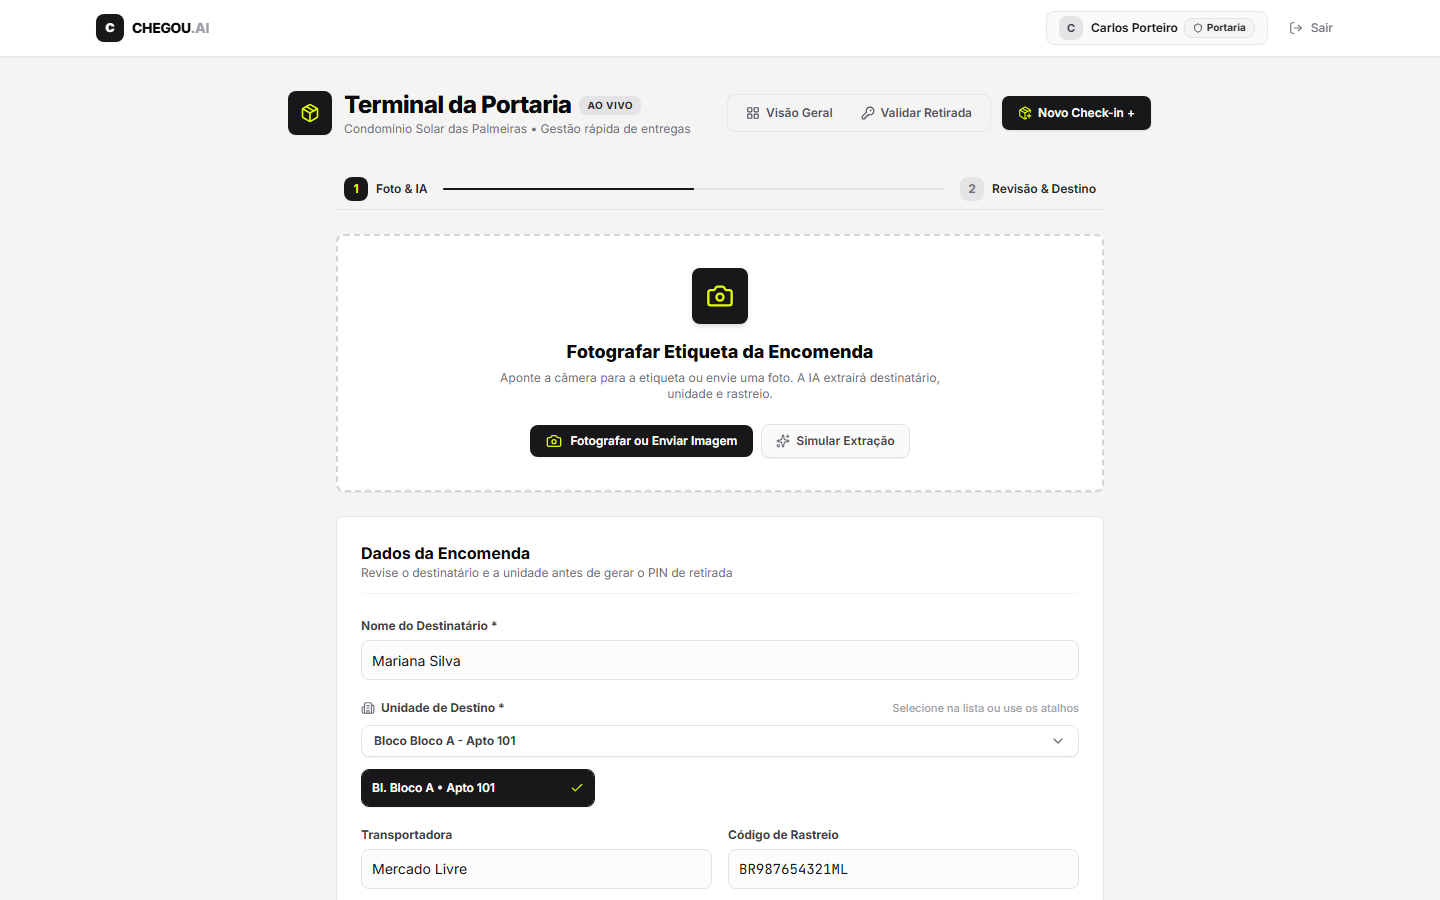
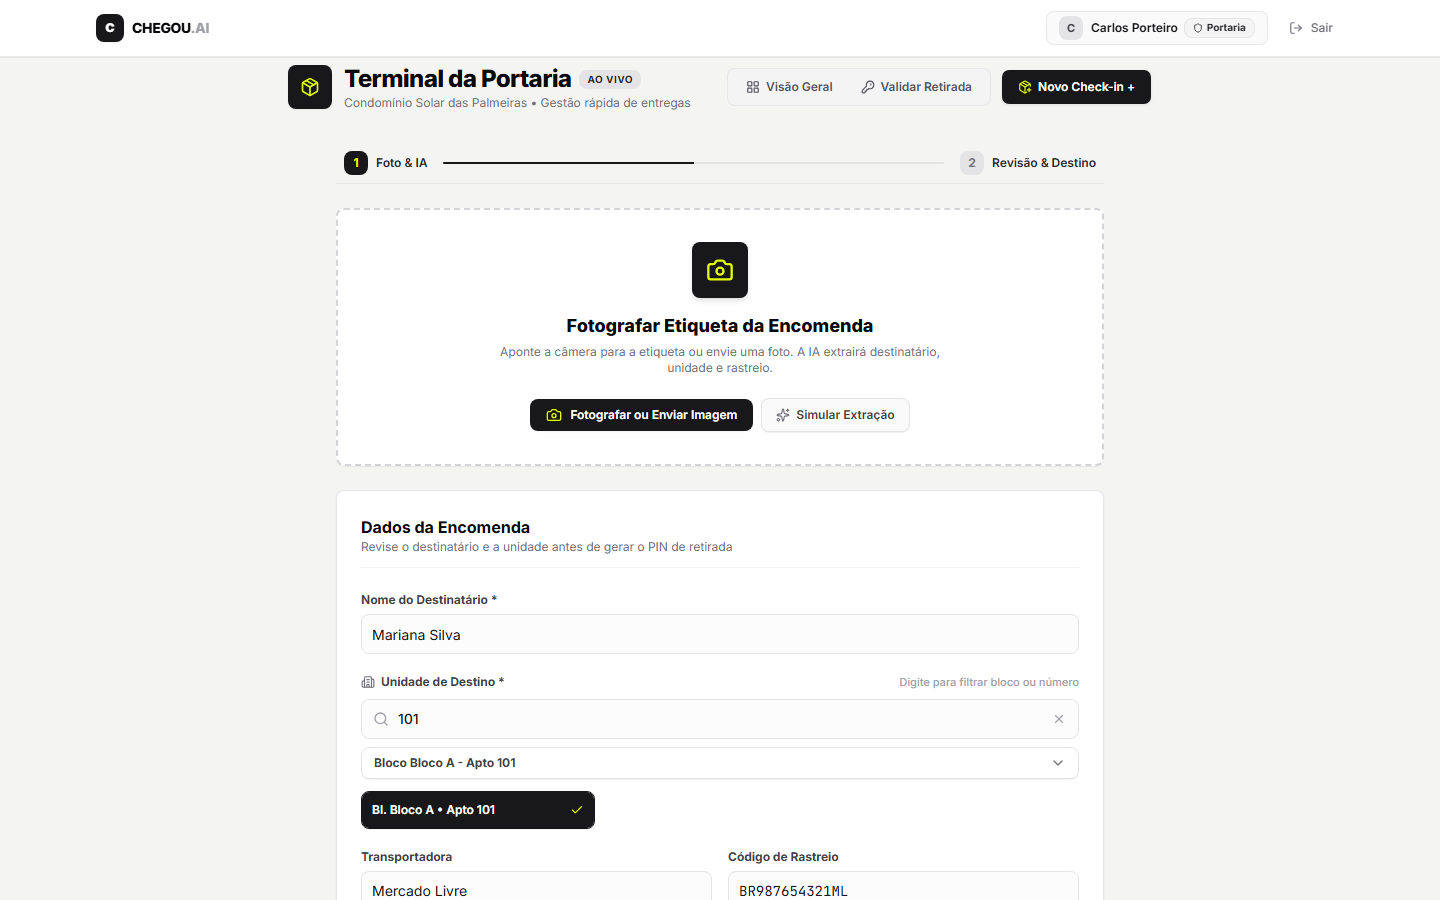
feat: add scan-form component and portaria checkin screenshot

diff --git a/apps/web/src/features/scan-label/ui/scan-form.tsx b/apps/web/src/features/scan-label/ui/scan-form.tsx
@@ -19,7 +19,7 @@ import {
   SelectItem,
 } from "@/shared/ui/select"
 import { toast } from "sonner"
-import { Sparkles, ArrowRight, ShieldCheck, AlertCircle, Building2, Check, ArrowLeft } from "lucide-react"
+import { Sparkles, ArrowRight, ShieldCheck, AlertCircle, Building2, Check, ArrowLeft, Search, X } from "lucide-react"
 import { useRouter } from "next/navigation"
 import { generateUUID } from "@/shared/lib/utils"
 
@@ -35,6 +35,7 @@ export function ScanForm({ units }: ScanFormProps) {
   const [aiScore, setAiScore] = useState<number | null>(null)
   const [addressValidation, setAddressValidation] = useState<AddressValidation | null>(null)
   const [activeStep, setActiveStep] = useState<1 | 2>(1)
+  const [unitSearch, setUnitSearch] = useState("")
 
   useEffect(() => {
     let isMounted = true
@@ -74,6 +75,13 @@ export function ScanForm({ units }: ScanFormProps) {
   const currentUnitId = watch("unitId")
   const recipientName = watch("recipientNameRaw")
   const selectedUnit = unitsList.find((u) => u.id === currentUnitId)
+
+  const filteredUnits = unitsList.filter((u) => {
+    if (!unitSearch.trim()) return true
+    const term = unitSearch.toLowerCase().trim()
+    const fullDesc = `bloco ${u.block} apto ${u.number} ${u.block} ${u.number}`.toLowerCase()
+    return fullDesc.includes(term)
+  })
 
   async function processExtraction(base64Image?: string, mimeType?: string) {
     try {
@@ -355,8 +363,29 @@ export function ScanForm({ units }: ScanFormProps) {
                 Unidade de Destino *
               </Label>
               <span className="text-[11px] text-zinc-400 font-medium">
-                Selecione na lista ou use os atalhos
+                Digite para filtrar bloco ou número
               </span>
+            </div>
+
+            {/* Input de filtro / busca interativa de unidade */}
+            <div className="relative">
+              <Search className="absolute left-3 top-3 size-4 text-zinc-400" />
+              <Input
+                type="text"
+                placeholder="Filtrar por bloco ou apartamento (ex: Bloco A, 101, B)..."
+                value={unitSearch}
+                onChange={(e) => setUnitSearch(e.target.value)}
+                className="pl-9 pr-8 h-10 rounded-lg border-zinc-200 bg-zinc-50/50 text-xs font-medium focus-visible:bg-white"
+              />
+              {unitSearch && (
+                <button
+                  type="button"
+                  onClick={() => setUnitSearch("")}
+                  className="absolute right-2.5 top-2.5 size-5 flex items-center justify-center text-zinc-400 hover:text-zinc-700 rounded-full hover:bg-zinc-200 transition-colors"
+                >
+                  <X className="size-3.5" />
+                </button>
+              )}
             </div>
 
             <Select
@@ -368,18 +397,24 @@ export function ScanForm({ units }: ScanFormProps) {
                   {selectedUnit ? `Bloco ${selectedUnit.block} - Apto ${selectedUnit.number}` : undefined}
                 </SelectValue>
               </SelectTrigger>
-              <SelectContent className="rounded-lg">
-                {unitsList.map((u) => (
-                  <SelectItem key={u.id} value={u.id}>
-                    Bloco {u.block} - Apto {u.number}
-                  </SelectItem>
-                ))}
+              <SelectContent className="rounded-lg max-h-60">
+                {filteredUnits.length > 0 ? (
+                  filteredUnits.map((u) => (
+                    <SelectItem key={u.id} value={u.id}>
+                      Bloco {u.block} - Apto {u.number}
+                    </SelectItem>
+                  ))
+                ) : (
+                  <div className="p-3 text-center text-xs text-zinc-400">
+                    Nenhuma unidade encontrada para &quot;{unitSearch}&quot;
+                  </div>
+                )}
               </SelectContent>
             </Select>
 
-            {/* Quick chips for most frequent units */}
+            {/* Quick chips filtrados com base na busca */}
             <div className="grid grid-cols-2 sm:grid-cols-3 gap-2 pt-1">
-              {unitsList.slice(0, 6).map((u) => {
+              {filteredUnits.slice(0, 6).map((u) => {
                 const isSelected = currentUnitId === u.id
                 return (
                   <Button
